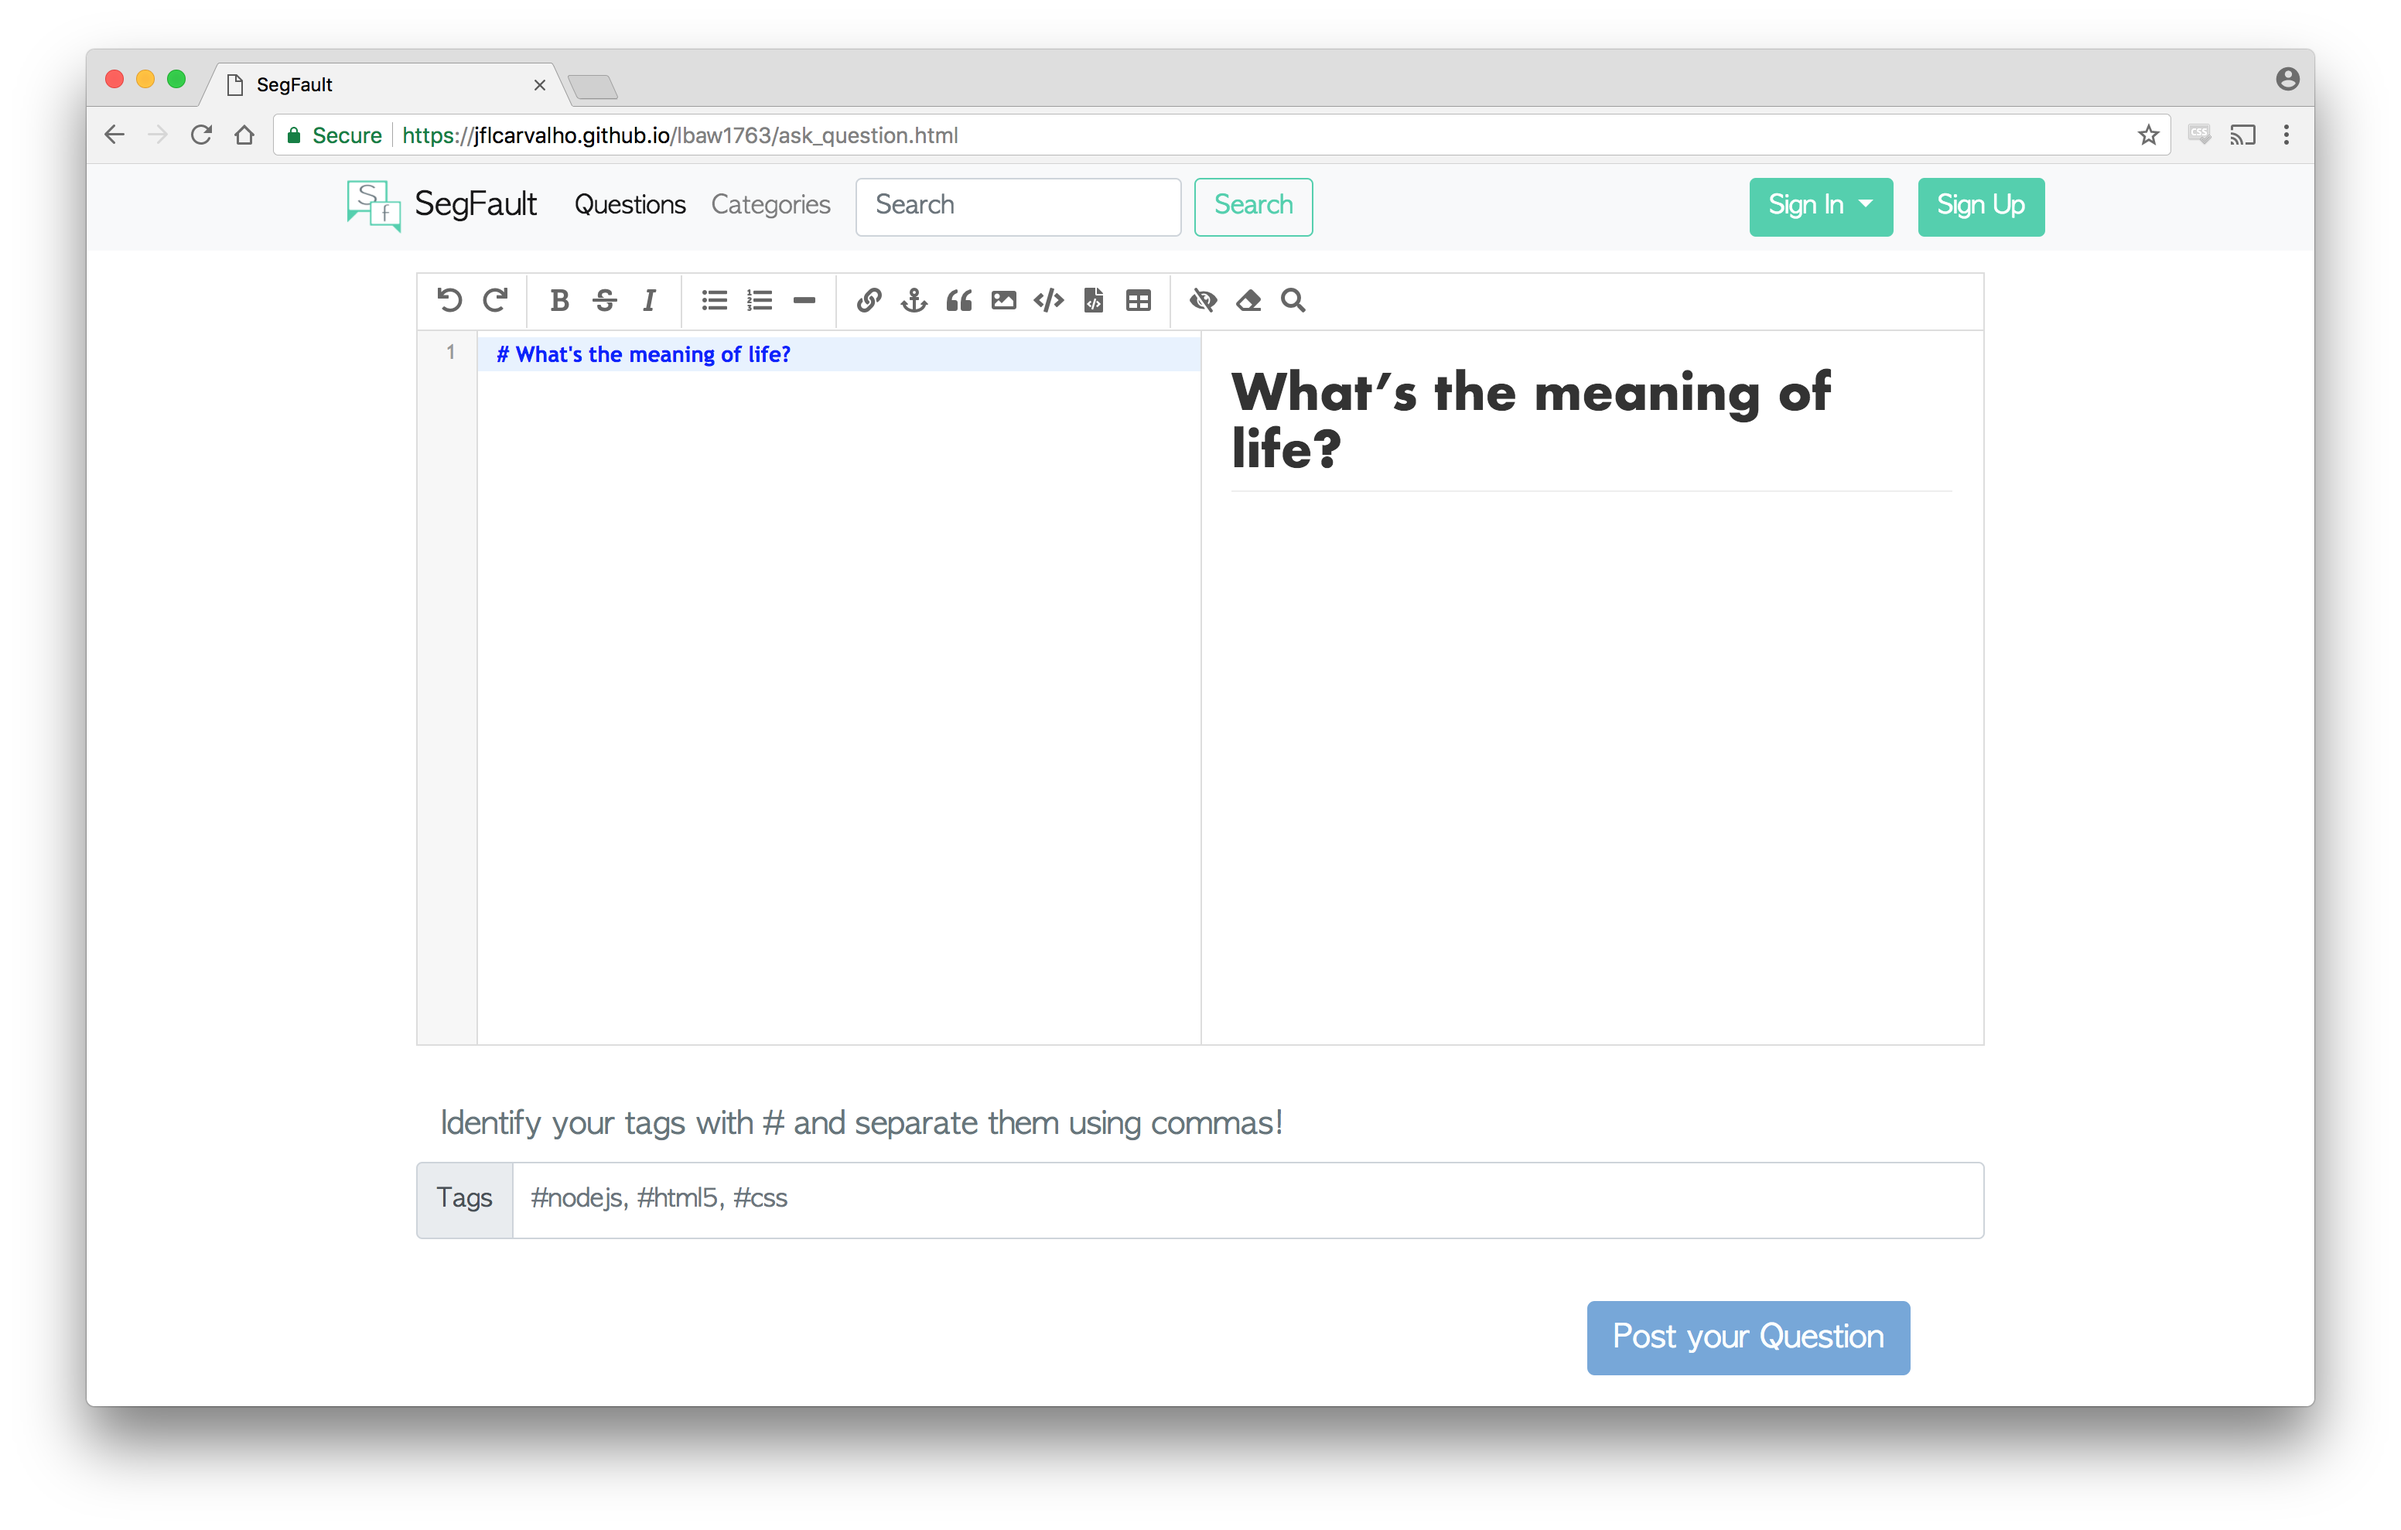
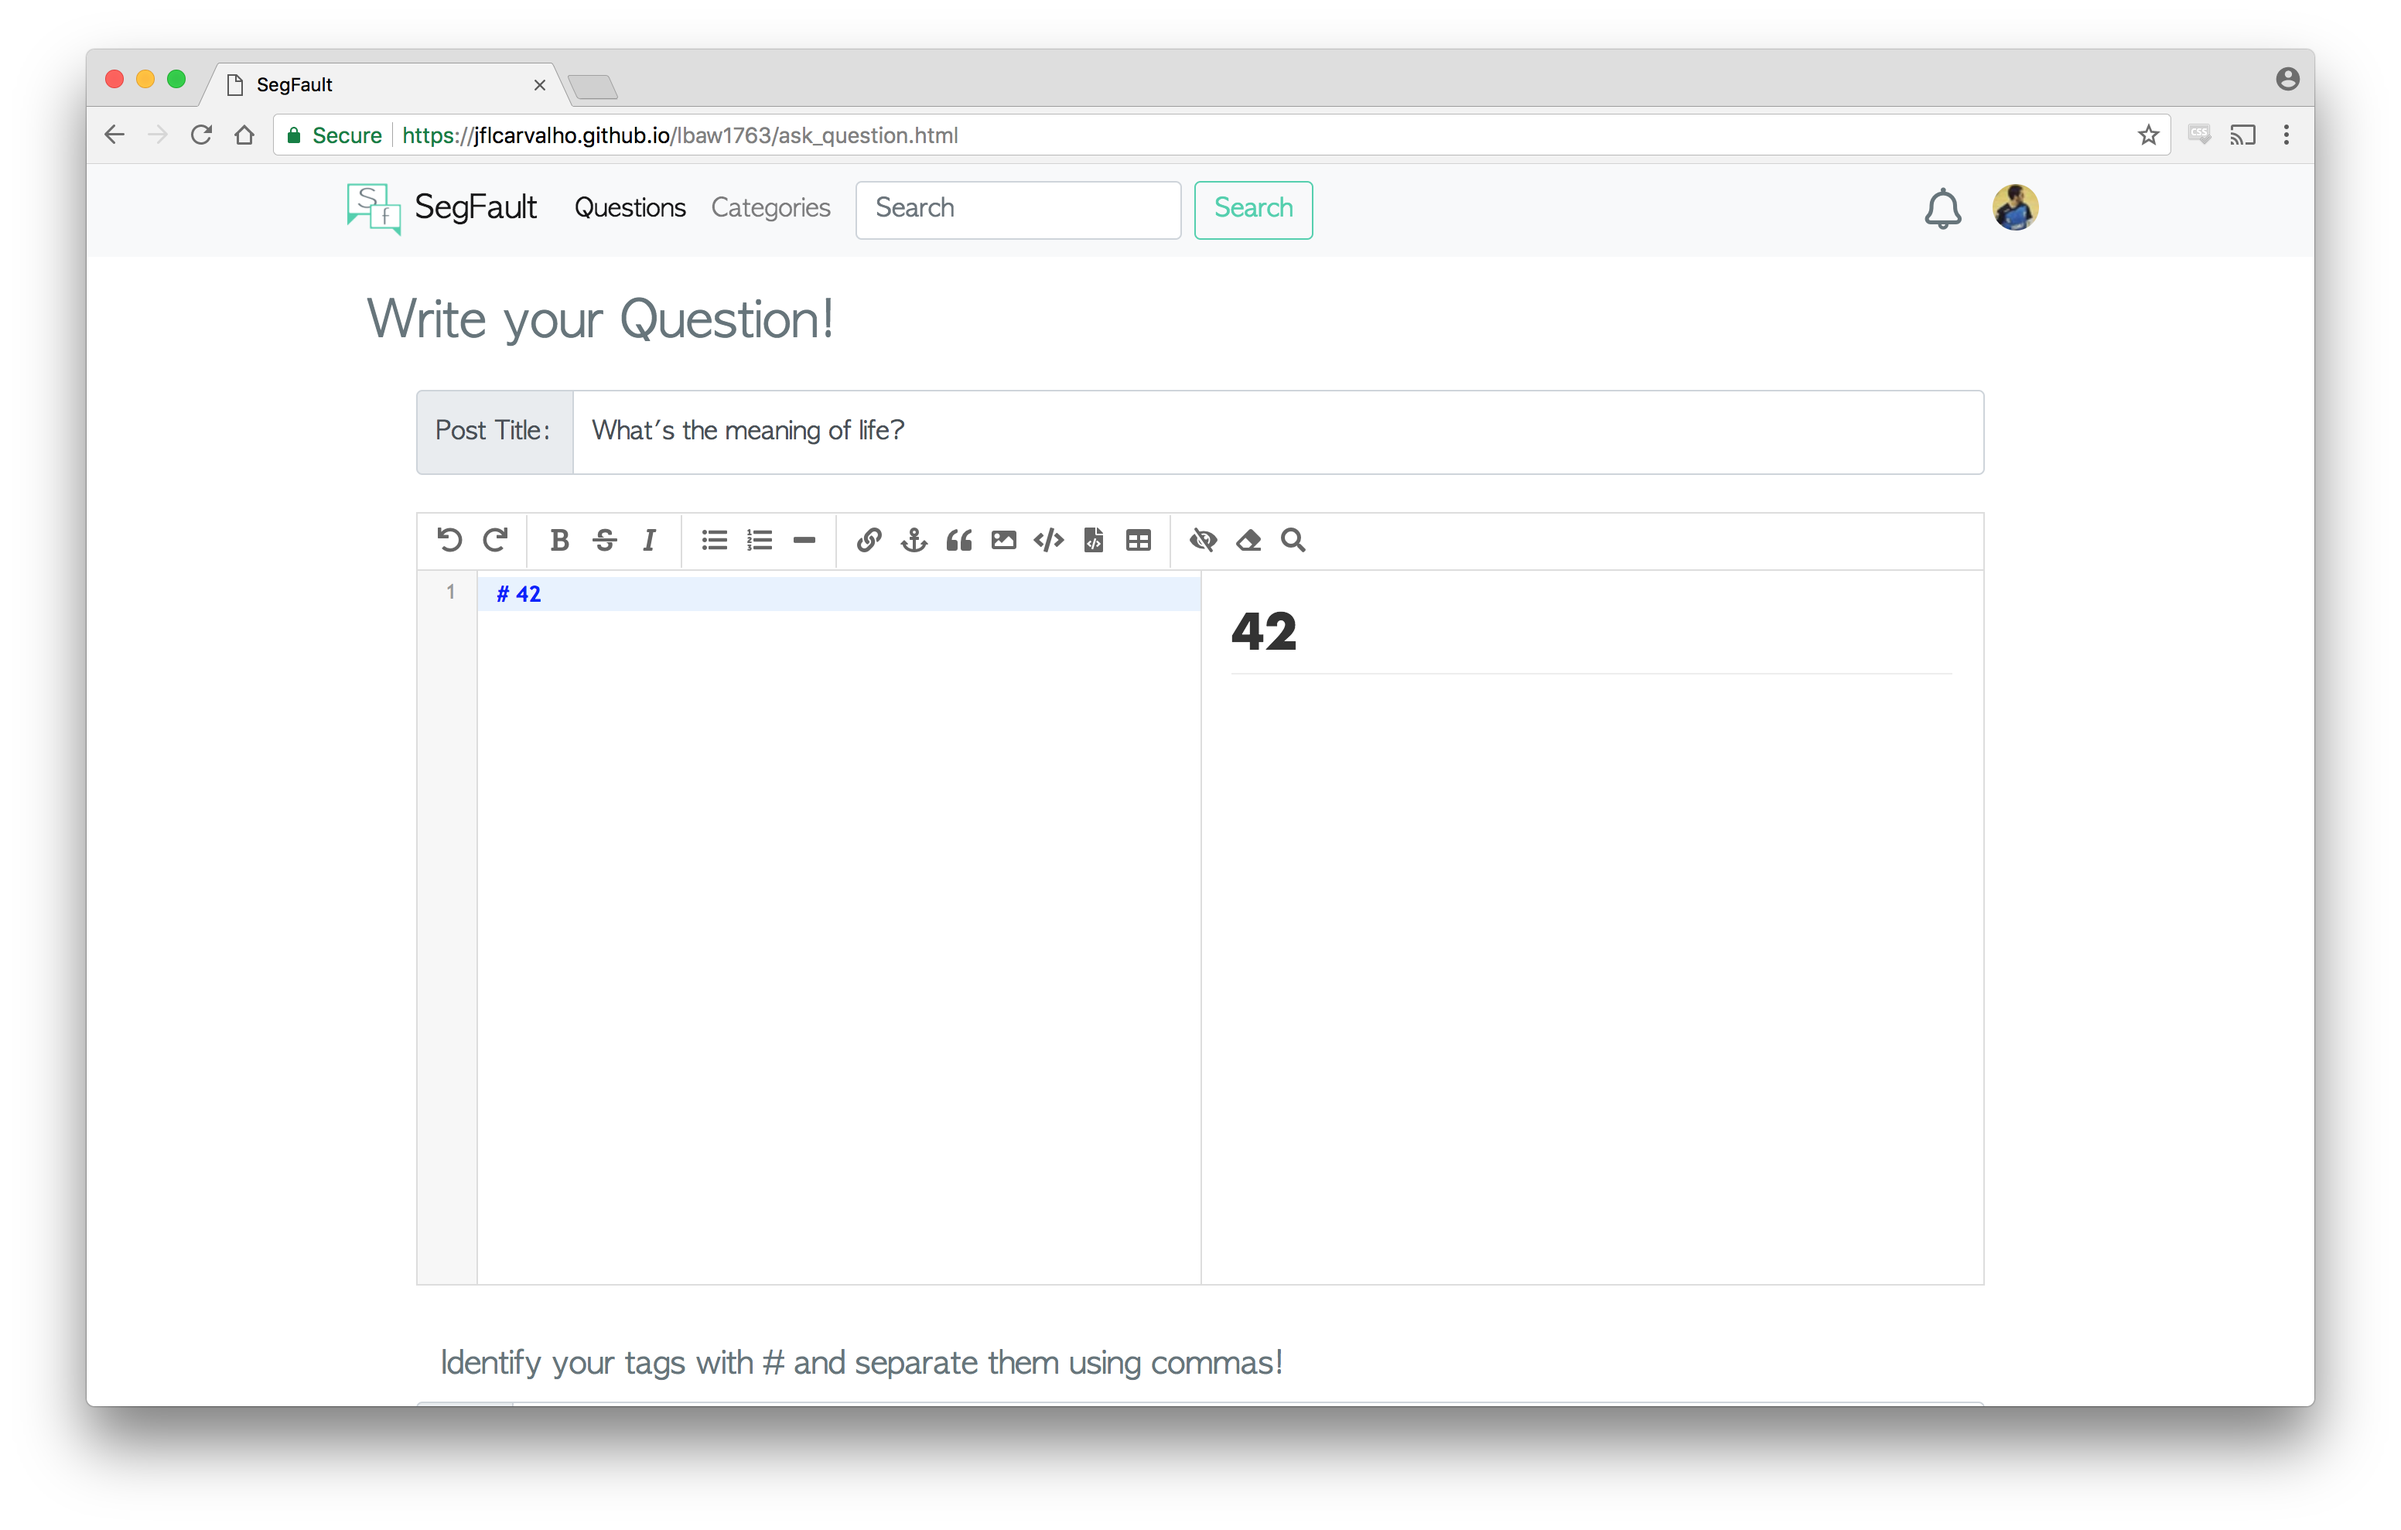
bubacar

diff --git a/Artifacts/lbaw1763_a3.md b/Artifacts/lbaw1763_a3.md
@@ -28,7 +28,7 @@ Additionally, an authenticated user can ask a new question: after introducing th
 Figure 1.a: [Home page](https://jflcarvalho.github.io/lbaw1763/index.html).
 
 <img src="screenshots/index_mobile.png" alt="Home page, in mobile." style="width: 200px;"/>
-Figure 1.b: Home page on mobile.
+Figure 1.b: Home page, on mobile.
 
 
 ### UI02: About
@@ -39,7 +39,7 @@ The [about page](https://jflcarvalho.github.io/lbaw1763/about.html) informs the 
 Figure 2.a: [About page](https://jflcarvalho.github.io/lbaw1763/about.html).
 
 <img src="screenshots/about_mobile.png" alt="Home page, in mobile." style="width: 200px;"/>
-Figure 1.b: About page on mobile.
+Figure 1.b: About page, on mobile.
 
 
 ### UI03: Question
@@ -54,11 +54,17 @@ Figure 3.a: [Question page](https://jflcarvalho.github.io/lbaw1763/question.html
 Figure 3.b: [Question page](https://jflcarvalho.github.io/lbaw1763/question.html), scrolled down.
 
 <img src="screenshots/question_logged_mobile.png" alt="Home page, in mobile." style="width: 200px;"/>
-Figure 3.c: Question page on mobile.
+Figure 3.c: Question page, on mobile.
 
 
 ### UI04: Ask a Question
+This page allows an authenticated user to ask a question. The title is
 
+![Question page, logged in.](screenshots/ask_question.png)
+Figure 3.a: [Question page](https://jflcarvalho.github.io/lbaw1763/ask_question.html).
+
+<img src="screenshots/question_logged_mobile.png" alt="Home page, in mobile." style="width: 200px;"/>
+Figure 3.b: Ask/Edit question page, on mobile.
 
 ### UI05: Profile
 
@@ -76,7 +82,7 @@ The [sign up page](https://jflcarvalho.github.io/lbaw1763/sign-up.html) allows u
 Figure: [Sign Up page](https://jflcarvalho.github.io/lbaw1763/sign-up.html).
 
 <img src="screenshots/sign-up_mobile.png" alt="SignUp page, on mobile." style="width: 200px;"/>
-Figure: Sign Up page on mobile.
+Figure: Sign Up page, on mobile.
 
 
 ### UI09: Error
@@ -86,7 +92,7 @@ The [error page]() informs the user that the server has _segfaulted_, and thus c
 Figure: [Error page](https://jflcarvalho.github.io/lbaw1763/error.html).
 
 <img src="screenshots/error_mobile.png" alt="SignUp page, on mobile." style="width: 200px;"/>
-Figure: Error page on mobile.
+Figure: Error page, on mobile.
 
 
 ***
